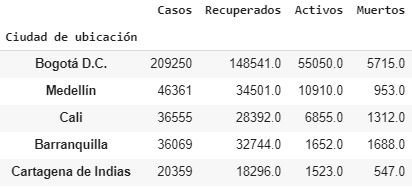
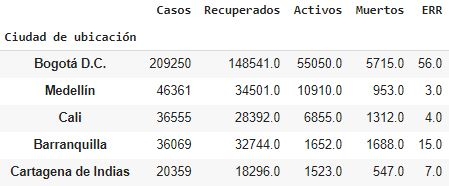
add error

diff --git a/Metodología.md b/Metodología.md
@@ -94,7 +94,7 @@ Se realizo un análisis exploratorio de los datos y el detalle se puede encontra
 
 #### Tabla comparativa
 ![Alt text](img/compara.JPG)
-
+*Nota: La columna ERR cuenta los registros que originalmente tenian fecha de recuperado y fecha de muerte simultaneamente.
 
 ### Hallazgos
 
